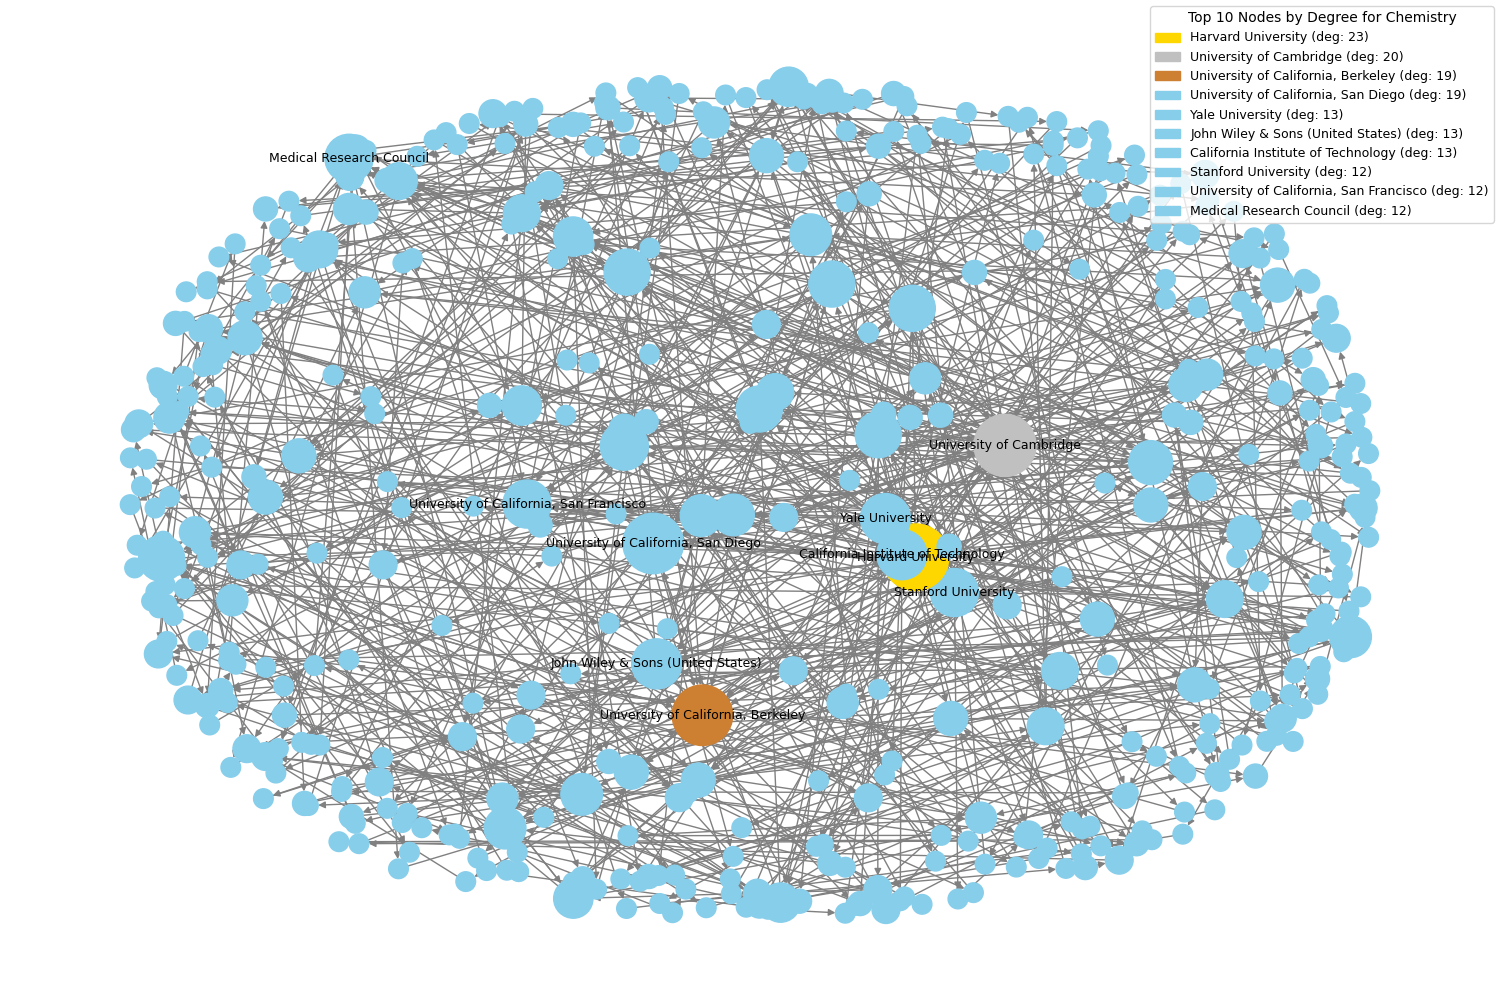
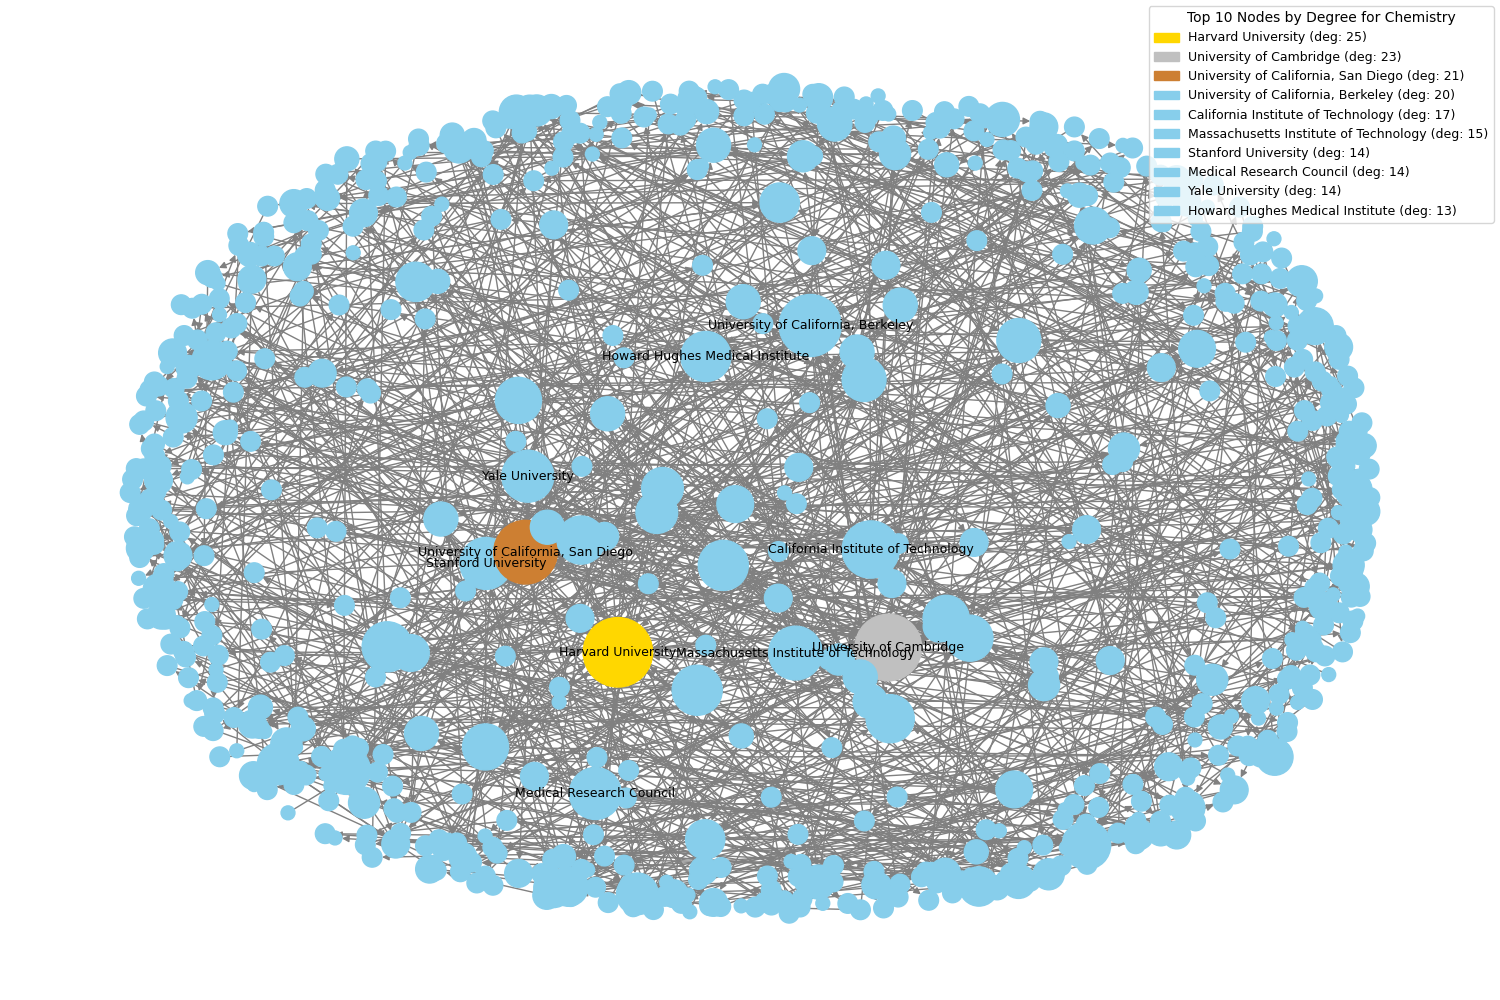
Consider wcc for top universities

diff --git a/code/top_universities.py b/code/top_universities.py
@@ -35,15 +35,15 @@ def main(topic):
             G.add_edge(institutions[i], institutions[i + 1])
 
     # Get all strongly connected components (as sets of nodes)
-    sccs = list(nx.strongly_connected_components(G))
-
-    # Find the largest one
-    largest_scc = max(sccs, key=len)
-
-    # Create a subgraph with only that component
-    G_largest_scc = G.subgraph(largest_scc).copy()
-
-    G = G_largest_scc
+    # sccs = list(nx.strongly_connected_components(G))
+    #
+    # # Find the largest one
+    # largest_scc = max(sccs, key=len)
+    #
+    # # Create a subgraph with only that component
+    # G_largest_scc = G.subgraph(largest_scc).copy()
+    #
+    # G = G_largest_scc
 
     # Degree computation
     degrees = dict(G.degree())
